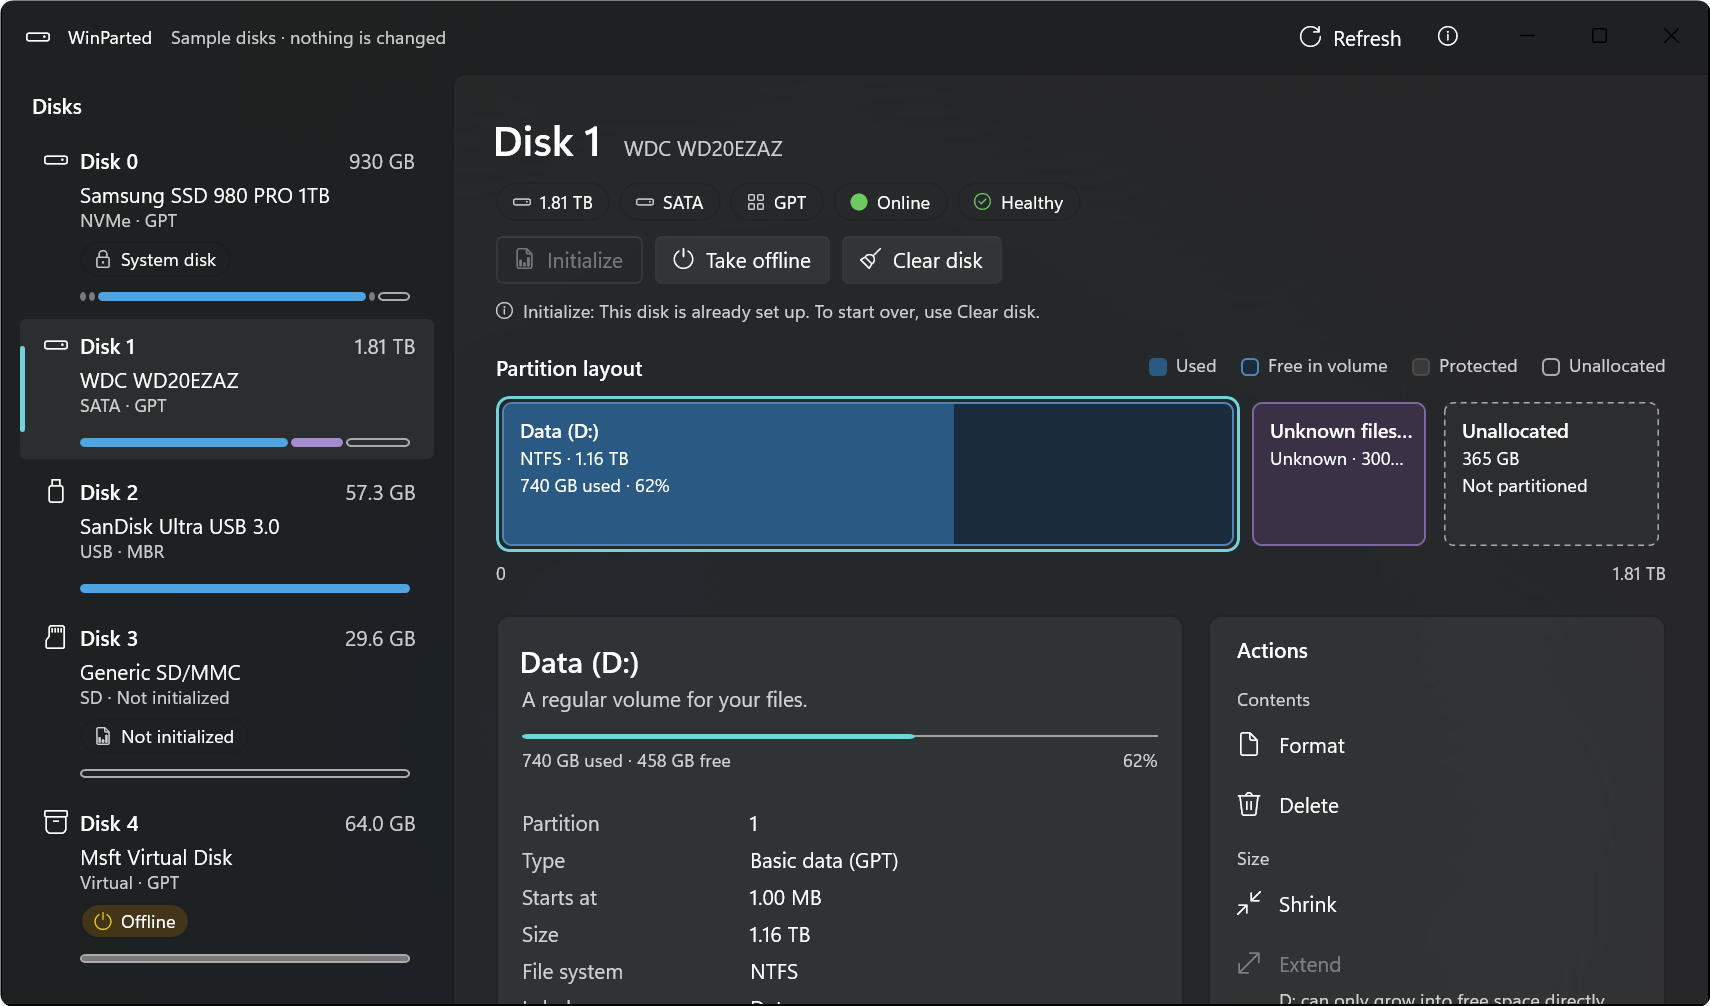
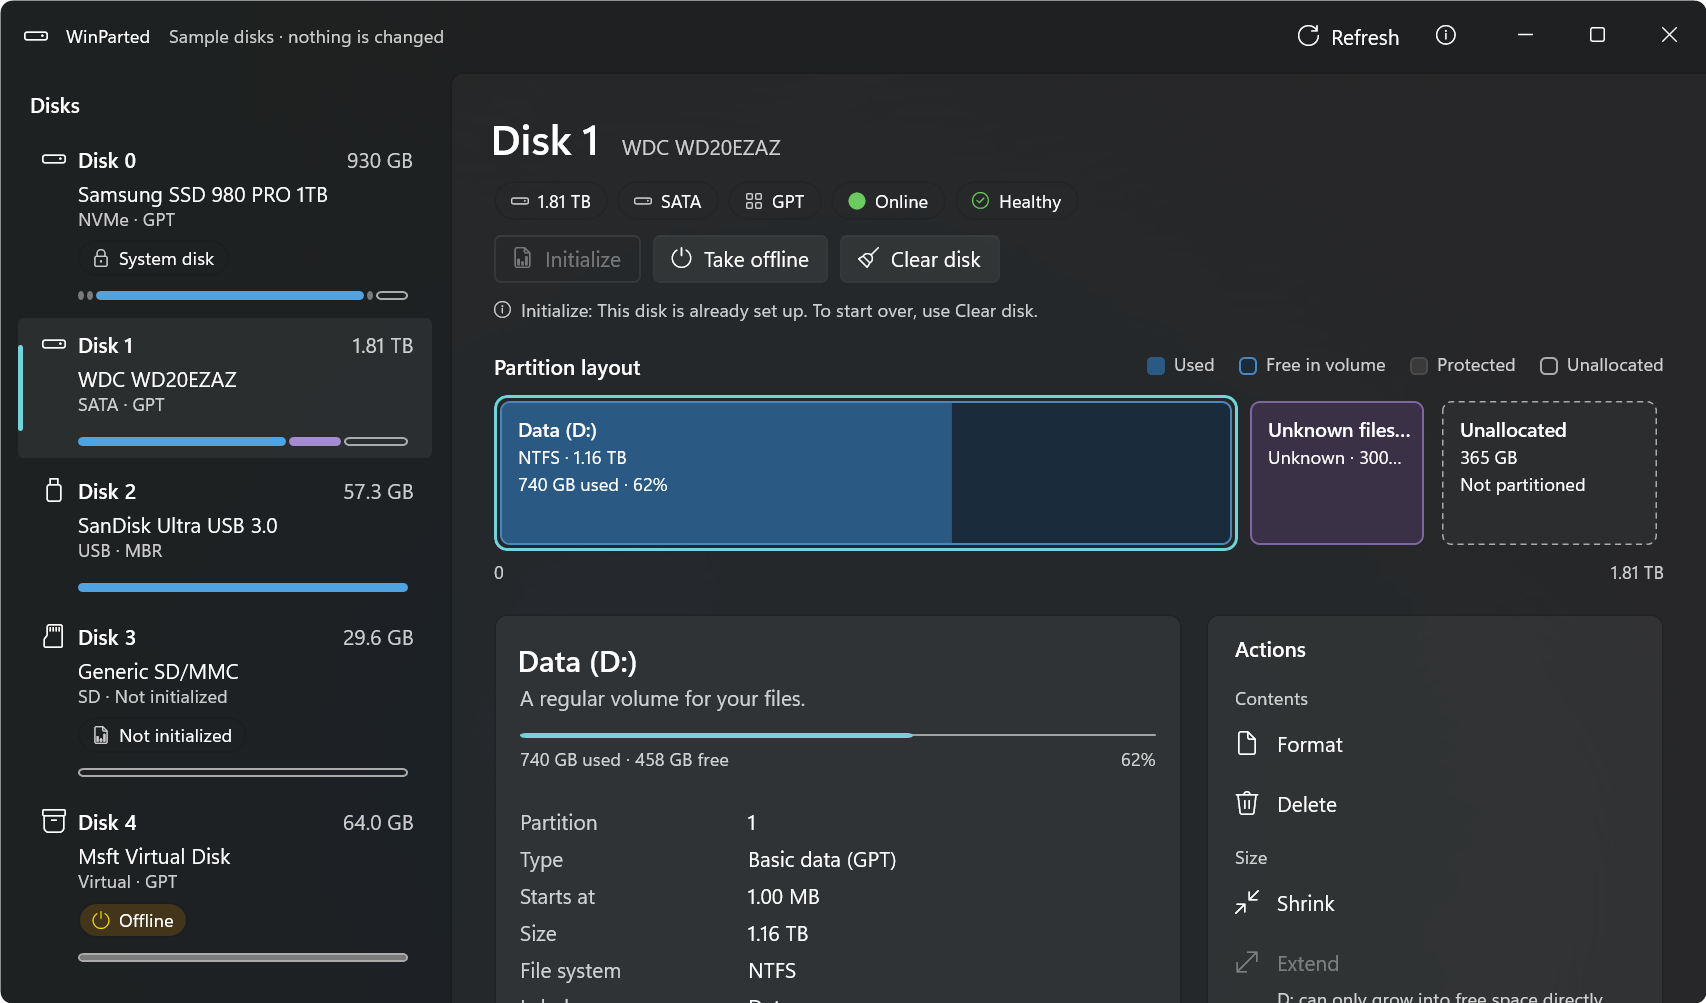
Trim the black window border from screenshots; caption buttons follow the app theme
- PrintWindow leaves the window border unpainted, which showed as a dark
  frame around the light screenshot. The screenshots are retaken without it.
- Minimize, maximize and close now follow the app's theme, so they stay
  readable when it differs from the Windows theme (e.g. --theme dark).

diff --git a/src/WinParted.App/MainWindow.xaml.cs b/src/WinParted.App/MainWindow.xaml.cs
@@ -26,6 +26,16 @@ public sealed partial class MainWindow : Window
         AppTitleBar.Loaded += (_, _) => UpdateTitleBarLayout();
         AppTitleBar.SizeChanged += (_, _) => UpdateTitleBarLayout();
 
+        // Caption buttons (minimize, maximize, close) follow the app's theme, not the Windows one, so
+        // they stay readable when the two differ (e.g. --theme dark on a light Windows).
+        if (Content is FrameworkElement root)
+        {
+            void MatchTheme() => AppWindow.TitleBar.PreferredTheme =
+                root.ActualTheme == ElementTheme.Dark ? TitleBarTheme.Dark : TitleBarTheme.Light;
+            MatchTheme();
+            root.ActualThemeChanged += (_, _) => MatchTheme();
+        }
+
         // Design: minimum 1000 x 640 effective pixels. AppWindow works in physical pixels, so scale
         // by the window's DPI (e.g. 150% display scaling = 1.5).
         var scale = GetDpiForWindow(WinRT.Interop.WindowNative.GetWindowHandle(this)) / 96.0;
